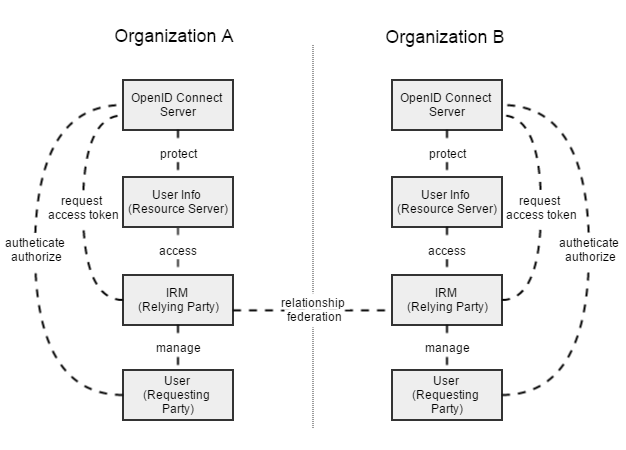
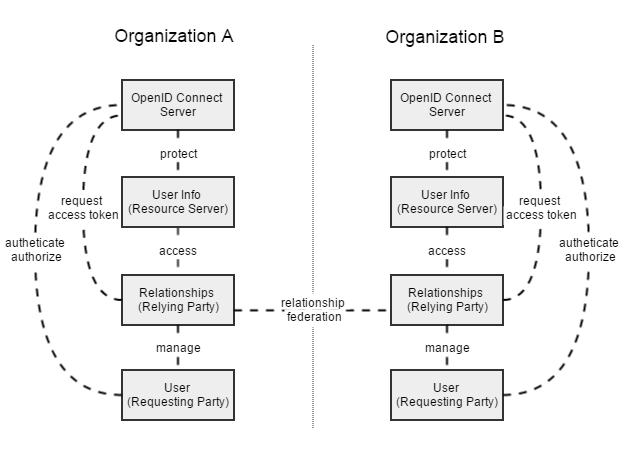
Relationships

diff --git a/ibn.html b/ibn.html
@@ -109,7 +109,7 @@
 						</p>
 												
 						<p>
-							An identity-based network communication approach is a better fit for the distributed nature of cloud computing that has intrinsic privacy-preserving properties.
+							An identity-based network communication approach is a better fit for the distributed nature of cloud computing and has intrinsic privacy-preserving properties.
 						</p>
 
 						</div>
